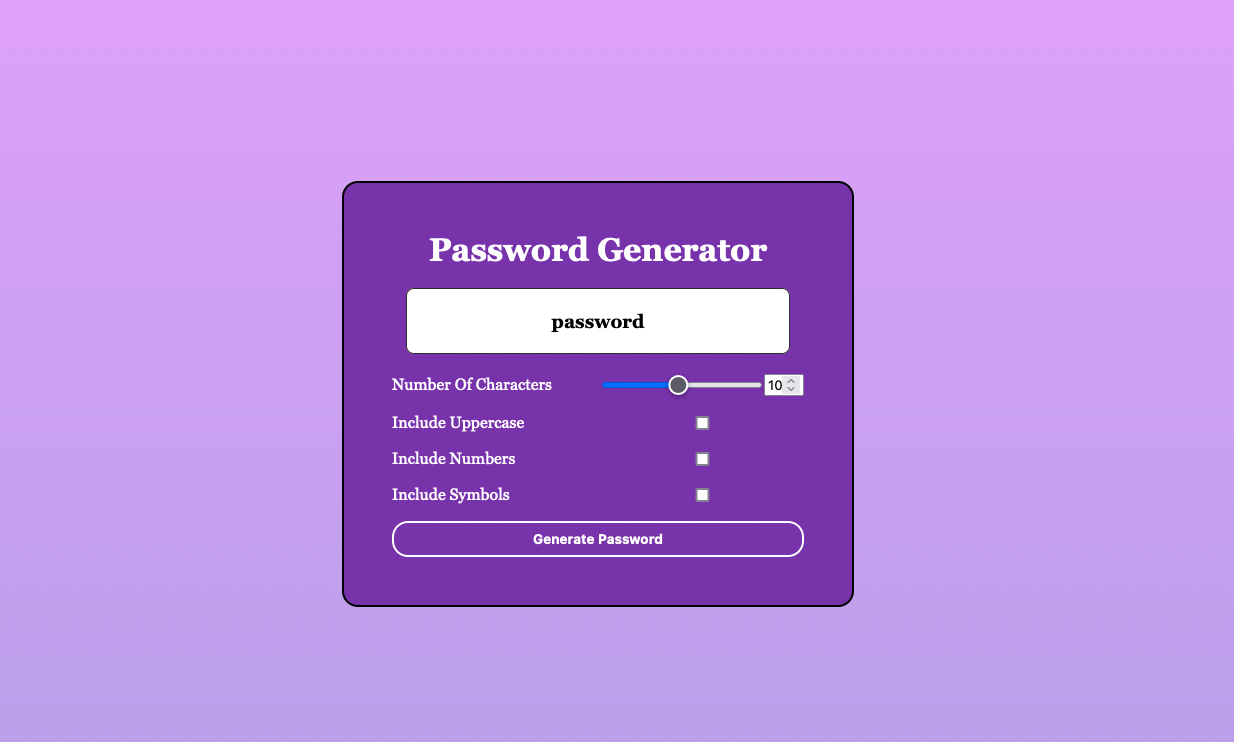
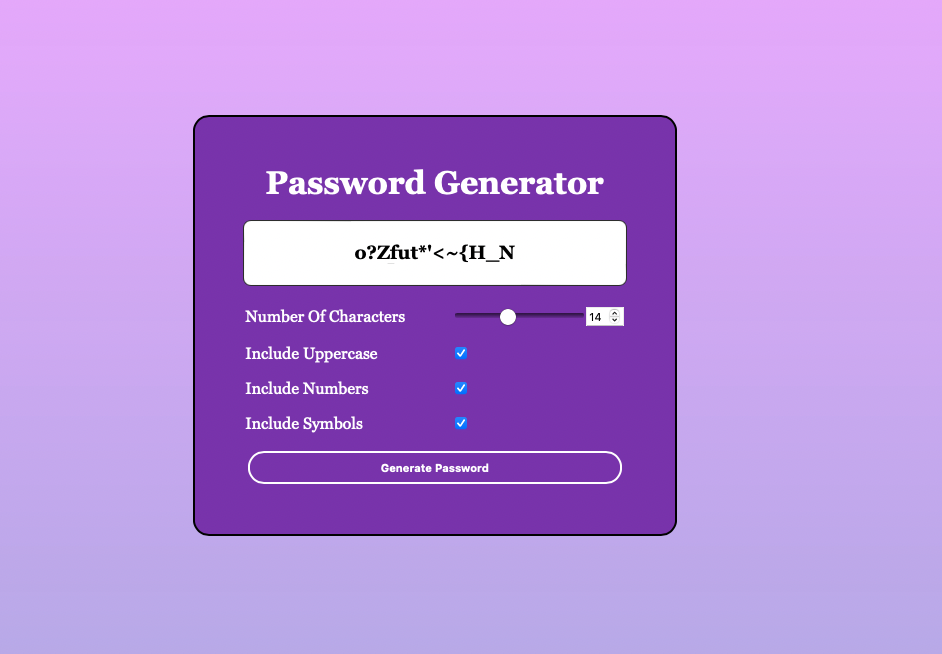
updated Screenshot

Changed region(s): [[0.1847, 0.1529, 0.7389, 0.8257], [0.4618, 0.581, 0.4926, 0.6116]]

diff --git a/index.html b/index.html
@@ -15,21 +15,8 @@
       <form id="passwordGeneratorForm" class="form">
         <label for="characterAmountNumber">Number Of Characters</label>
         <div class="character-amount-container">
-          <input
-            type="range"
-            min="1"
-            max="20"
-            value="10"
-            id="characterAmountRange"
-          />
-          <input
-            class="number-input"
-            type="number"
-            min="1"
-            max="20"
-            value="10"
-            id="characterAmountNumber"
-          />
+          <input type="range" min="10" max="20" value="10" id="characterAmountRange" />
+          <input class="number-input" type="number" min="10" max="20" value="10" id="characterAmountNumber" />
         </div>
 
         <label for="includeUppercase">Include Uppercase</label>

diff --git a/README.md b/README.md
@@ -3,6 +3,8 @@
 npm run build
 open in index.html
 
+https://www.petefreitag.com/cheatsheets/ascii-codes/
+
 ## Screenshot
 
 ![screenshot](Screenshot.png?raw=true 'Screenshot of password generator application')
